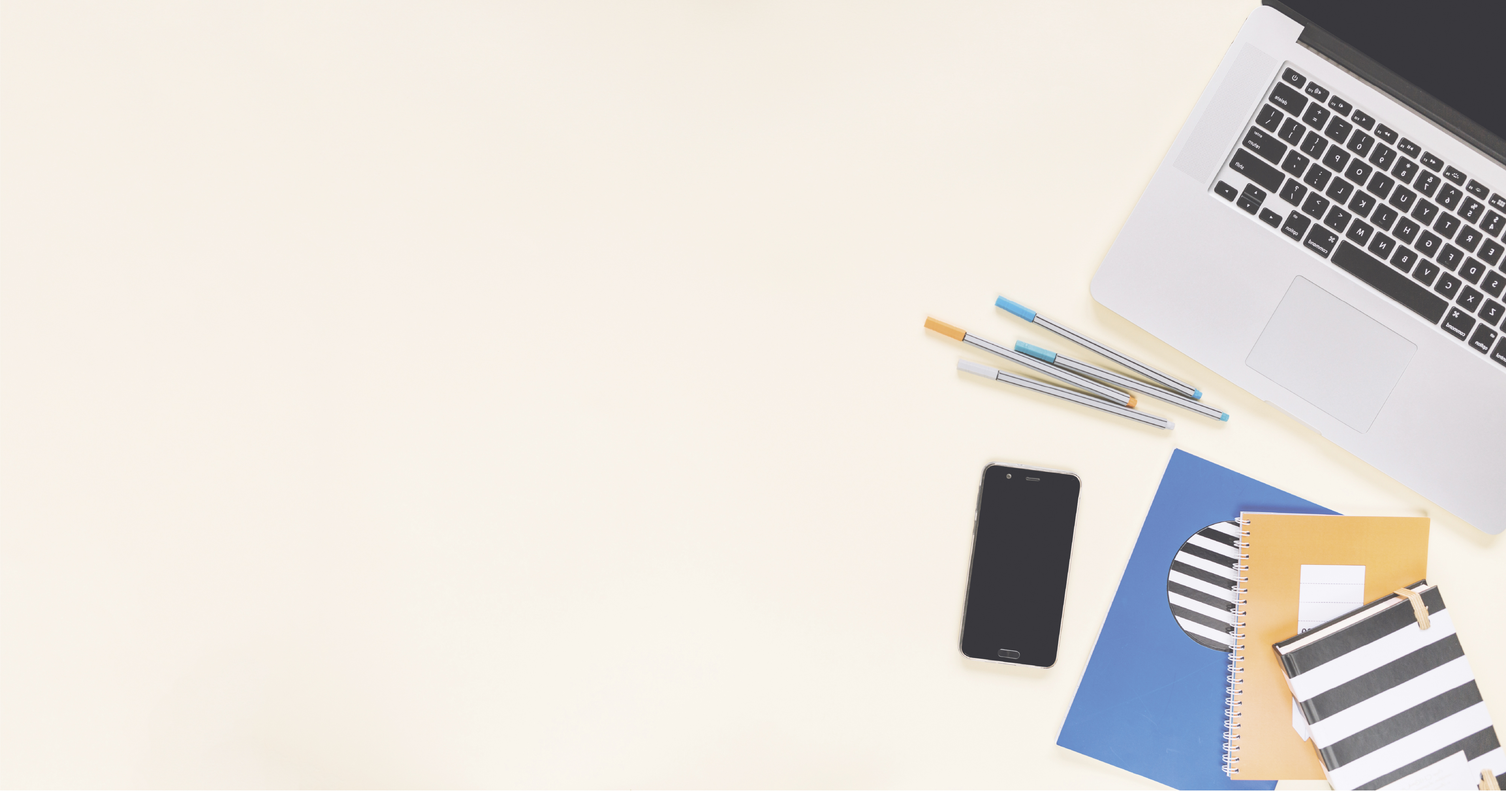
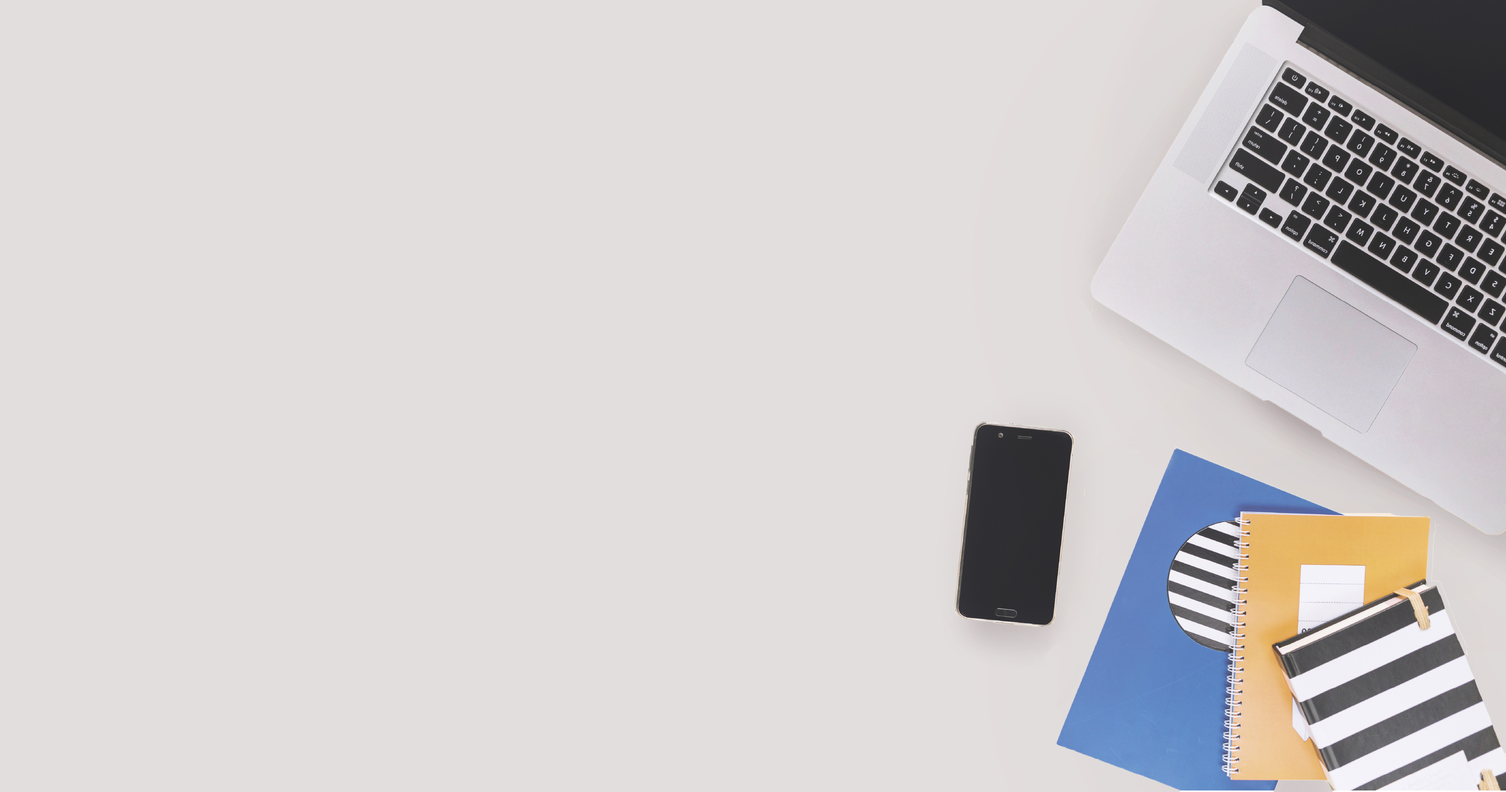
change bg

diff --git a/client/src/pages/SelectTheme/SelectTheme.js b/client/src/pages/SelectTheme/SelectTheme.js
@@ -1,0 +1,81 @@
+import React, {useCallback, useContext, useEffect, useState} from "react";
+import {AuthContext} from "../../context/AuthContext";
+import {useMessage} from "../../hooks/message.hook";
+import {useHistory} from 'react-router-dom'
+import {useHttp} from "../../hooks/http.hook";
+import Select from "react-select";
+import {Button} from "react-bootstrap";
+import {Loader} from "../../components/Loader";
+
+
+export const SelectTheme = () => {
+    const auth = useContext(AuthContext);
+    const history = useHistory();
+    const message = useMessage();
+    const {loading, request, error, clearError} = useHttp();
+    const [options, setOptions] = useState({schools: []});
+    const [form, setForm] = useState({
+        schoolName: ''
+    });
+
+    const getData = useCallback(async () => {
+        try {
+            const fetched = await request(`/api/table/get_school`, 'GET', null);
+            setOptions(fetched);
+        } catch (e) {
+
+        }
+    }, [request]);
+
+    useEffect(() => {
+        getData();
+        message(error);
+        clearError()
+    }, [getData, error, message, clearError]);
+
+    useEffect(() => {
+        window.M.updateTextFields()
+    }, []);
+
+    const changeHandlerSchool = event => {
+        setForm({...form, schoolName: event.value});
+    };
+
+    if(loading){
+        return <Loader/>
+    }
+
+    return (
+        <div className="row">
+            <h1/>
+            <div className="col s6 offset-s3">
+                <div className="card blue darken-1">
+                    <div className="card-content white-text">
+                        <span className="card-title">Добавление данных</span>
+                        <div>
+
+                            <label htmlFor="school" className="white-text">Класс</label>
+                            <Select onChange={changeHandlerSchool}
+                                    id="school"
+                                    placeholder="Выберите школу"
+                                    className="black-text"
+                                    options={options.schools}
+                                    name="school"
+                            />
+                        </div>
+                    </div>
+                    <div className="card-action">
+                        <Button
+                            className="btn yellow darken-4"
+                            style={{marginRight: 10}}
+                            disabled={loading}
+                            href={`/view/${form.schoolName}`}
+                        >
+                            Выбрать школу
+                        </Button>
+                    </div>
+                </div>
+            </div>
+        </div>
+    )
+};

diff --git a/client/src/routes.js b/client/src/routes.js
@@ -19,6 +19,7 @@ import {AddAdPage} from "./pages/Ad/AddAdPage";
 import {AdListPage} from "./pages/Ad/AdListPage";
 import {AddYearSchoolPage} from "./pages/YearSchool/AddYearSchoolPage";
 import {EditorSpecialCoursePage} from "./pages/EditorSpecialCoursePage/EditorSpecialCoursePage";
+import {SelectTheme} from "./pages/SelectTheme/SelectTheme";
 
 
 export const useRoutes = (isAuthenticated, userRole) => {
@@ -27,6 +28,9 @@ export const useRoutes = (isAuthenticated, userRole) => {
             <Switch>
                 <Route path="/view/:id" exact>
                     <ViewPage/>
+                </Route>
+                <Route path="/select_theme" exact>
+                    <SelectTheme/>
                 </Route>
                 <Route path="/select_view" exact>
                     <SelectViewPage/>
@@ -87,6 +91,9 @@ export const useRoutes = (isAuthenticated, userRole) => {
             <Switch>
                 <Route path="/view/:id" exact>
                     <ViewPage/>
+                </Route>
+                <Route path="/select_theme" exact>
+                    <SelectTheme/>
                 </Route>
                 <Route path="/select_view" exact>
                     <SelectViewPage/>

diff --git a/client/src/components/Sidebar.js b/client/src/components/Sidebar.js
@@ -55,9 +55,14 @@ export const Sidebar = (props) => {
                     </Link>
                 </Nav.Item>
                 <Nav.Item>
-                    <Link className="nav-link" id="last-nav-link" to="/add_new_year">
+                    <Link className="nav-link" to="/add_new_year">
                         <svg className="toPlusIcon"/>
                         учебный год
+                    </Link>
+                </Nav.Item>
+                <Nav.Item>
+                    <Link className="nav-link" id="last-nav-link" to="/select_theme">
+                        Оформление   <svg className="toArrowIcon"/>
                     </Link>
                 </Nav.Item>
 

diff --git a/client/src/pages/UserDashboard/UserDashboardPage.js b/client/src/pages/UserDashboard/UserDashboardPage.js
@@ -18,7 +18,7 @@ export const UserDashboardPage = () => {
         return (
             <div>
                 <h1/>
-                <div>
+                {/*<div>
                     <Link to="/editor">Редактор</Link>
                 </div>
                 <div>
@@ -35,7 +35,7 @@ export const UserDashboardPage = () => {
                 </div>
                 <div>
                     <Link to="/add_new_year">Добавить учебный год</Link>
-                </div>
+                </div>*/}
             </div>
         )
     }

diff --git a/routes/view.routes.js b/routes/view.routes.js
@@ -107,7 +107,6 @@ router.get('/get/:id', async (req, res) => {
                             _id: classroomDay.subjects[i]._id,
                             index: classroomDay.subjects[i].index,
                             name: classroomDay.subjects[i].name,
-                            time: classroomDay.subjects[i].time,
                             office: classroomDay.subjects[i].office,
                             date: new Date(),
                             update: false

diff --git a/client/src/pages/Admin/AdminOfficePage.js b/client/src/pages/Admin/AdminOfficePage.js
@@ -5,7 +5,7 @@ export const AdminOfficePage = () => {
     return (
         <div>
             <h1/>
-            <div>
+            {/*<div>
                 <Link to="/editor">Редактор</Link>
             </div>
             <div>
@@ -25,7 +25,7 @@ export const AdminOfficePage = () => {
             </div>
             <div>
                 <Link to="/ad">Реклама</Link>
-            </div>
+            </div>*/}
         </div>
     )
 };

diff --git a/client/src/pages/Time/AddTimePage.js b/client/src/pages/Time/AddTimePage.js
@@ -51,7 +51,7 @@ export const AddTimePage = () => {
                         specialFirstSession: data.specialFirstSession,
                         specialSecondSession: data.specialSecondSession
                     },
-                    isSpecial: data.isSpecial,
+                    isSpecial: data.isSpecial
                 })
             }
 
